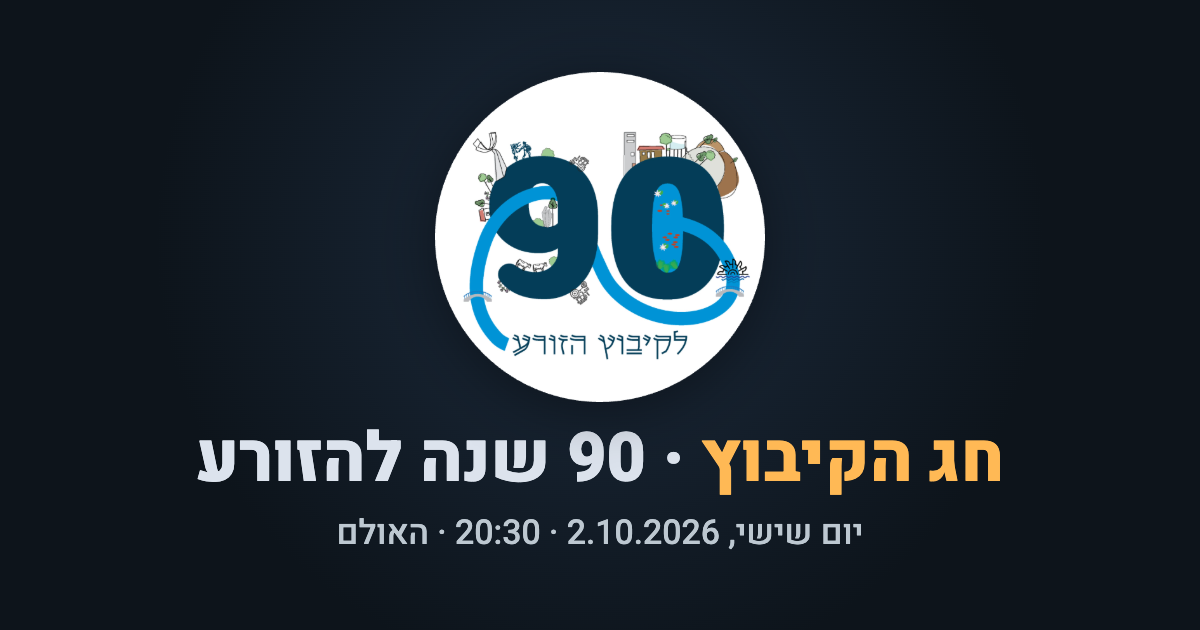
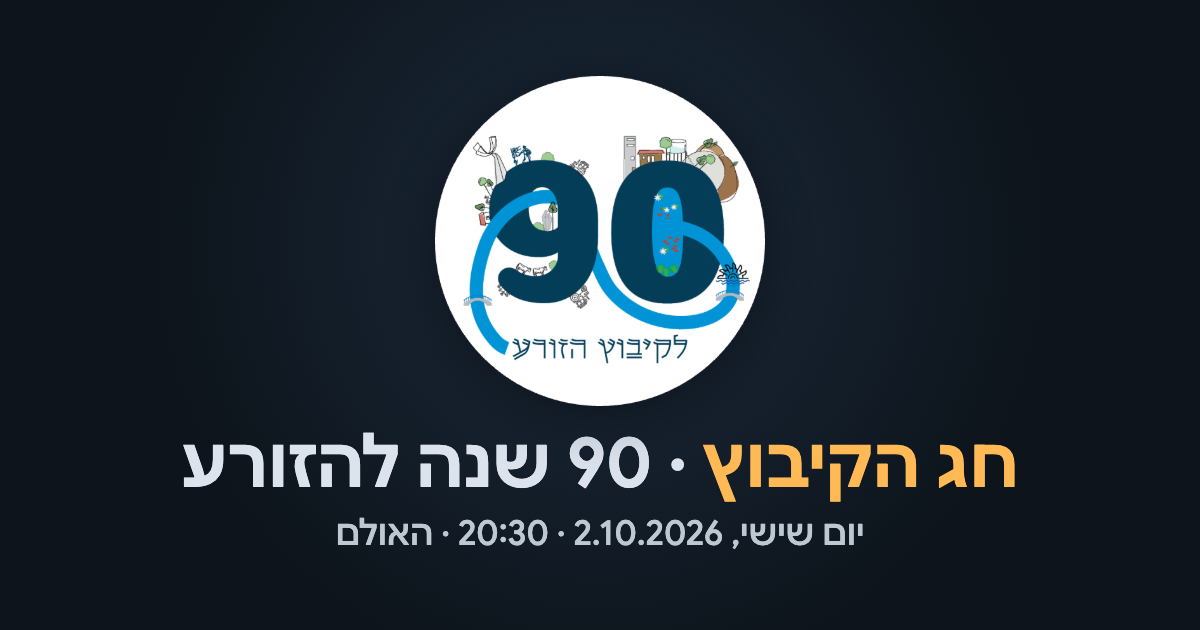
Switch the font to Google Sans
Google Sans covers Hebrew including niqqud. Its weights stop at 700, so the
800 weights become 700. The social preview image is re-rendered to match.

diff --git a/style.css b/style.css
@@ -30,7 +30,7 @@
   --tag-border: transparent;
 
   /* Typography (html is 18px, so 1rem = 18px) */
-  --font-body: 'Heebo', 'Assistant', system-ui, -apple-system, 'Segoe UI', Arial, sans-serif;
+  --font-body: 'Google Sans', system-ui, -apple-system, 'Segoe UI', Arial, sans-serif;
   --fs-sm: 0.8333rem;   /* 15px label */
   --fs-base: 1rem;      /* 18px body */
   --fs-md: 1.1111rem;   /* 20px card title */
@@ -191,7 +191,7 @@ a { color: var(--accent); }
 }
 .hero-title {
   font-size: var(--fs-hero);
-  font-weight: 800;
+  font-weight: 700; /* Google Sans tops out at 700 */
   line-height: 1.1;
   color: var(--hero-title);
 }
@@ -233,7 +233,7 @@ a { color: var(--accent); }
   min-width: 0;
   overflow: hidden;
   color: var(--hero-title);
-  font-weight: 800;
+  font-weight: 700; /* Google Sans tops out at 700 */
   line-height: var(--tap);
   text-decoration: none;
   text-overflow: ellipsis;
@@ -324,7 +324,7 @@ main { padding-block: var(--space-4) var(--space-6); }
 .section > h2 {
   margin-block-end: var(--space-4);
   font-size: var(--fs-xl);
-  font-weight: 800;
+  font-weight: 700; /* Google Sans tops out at 700 */
   line-height: 1.2;
 }
 

diff --git a/index.html b/index.html
@@ -35,10 +35,10 @@
 
   <link rel="preconnect" href="https://fonts.googleapis.com">
   <link rel="preconnect" href="https://fonts.gstatic.com" crossorigin>
-  <link rel="stylesheet" href="https://fonts.googleapis.com/css2?family=Heebo:wght@400;500;600;700;800&display=swap">
+  <link rel="stylesheet" href="https://fonts.googleapis.com/css2?family=Google+Sans:wght@400..700&display=swap">
   <!-- Bump ?v= whenever style.css or app.js changes, so phones don't mix cached and new files -->
-  <link rel="stylesheet" href="style.css?v=20260924c">
-  <script src="app.js?v=20260924c" defer></script>
+  <link rel="stylesheet" href="style.css?v=20260924d">
+  <script src="app.js?v=20260924d" defer></script>
 </head>
 <body>
   <a class="skip-link" href="#program">דלגו לתוכנייה</a>
